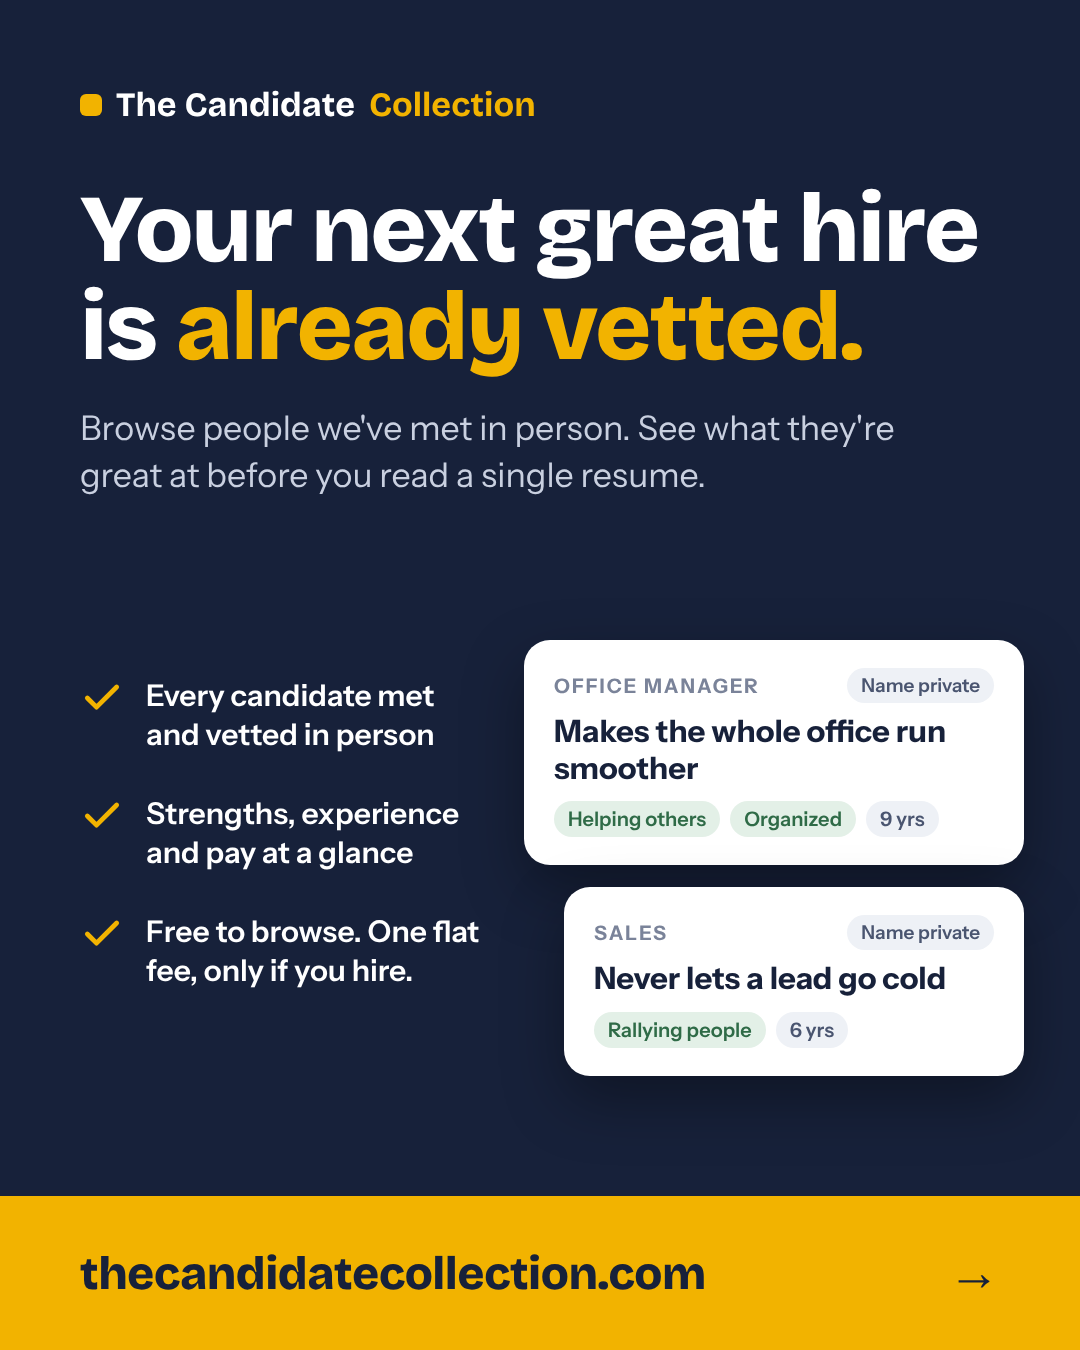
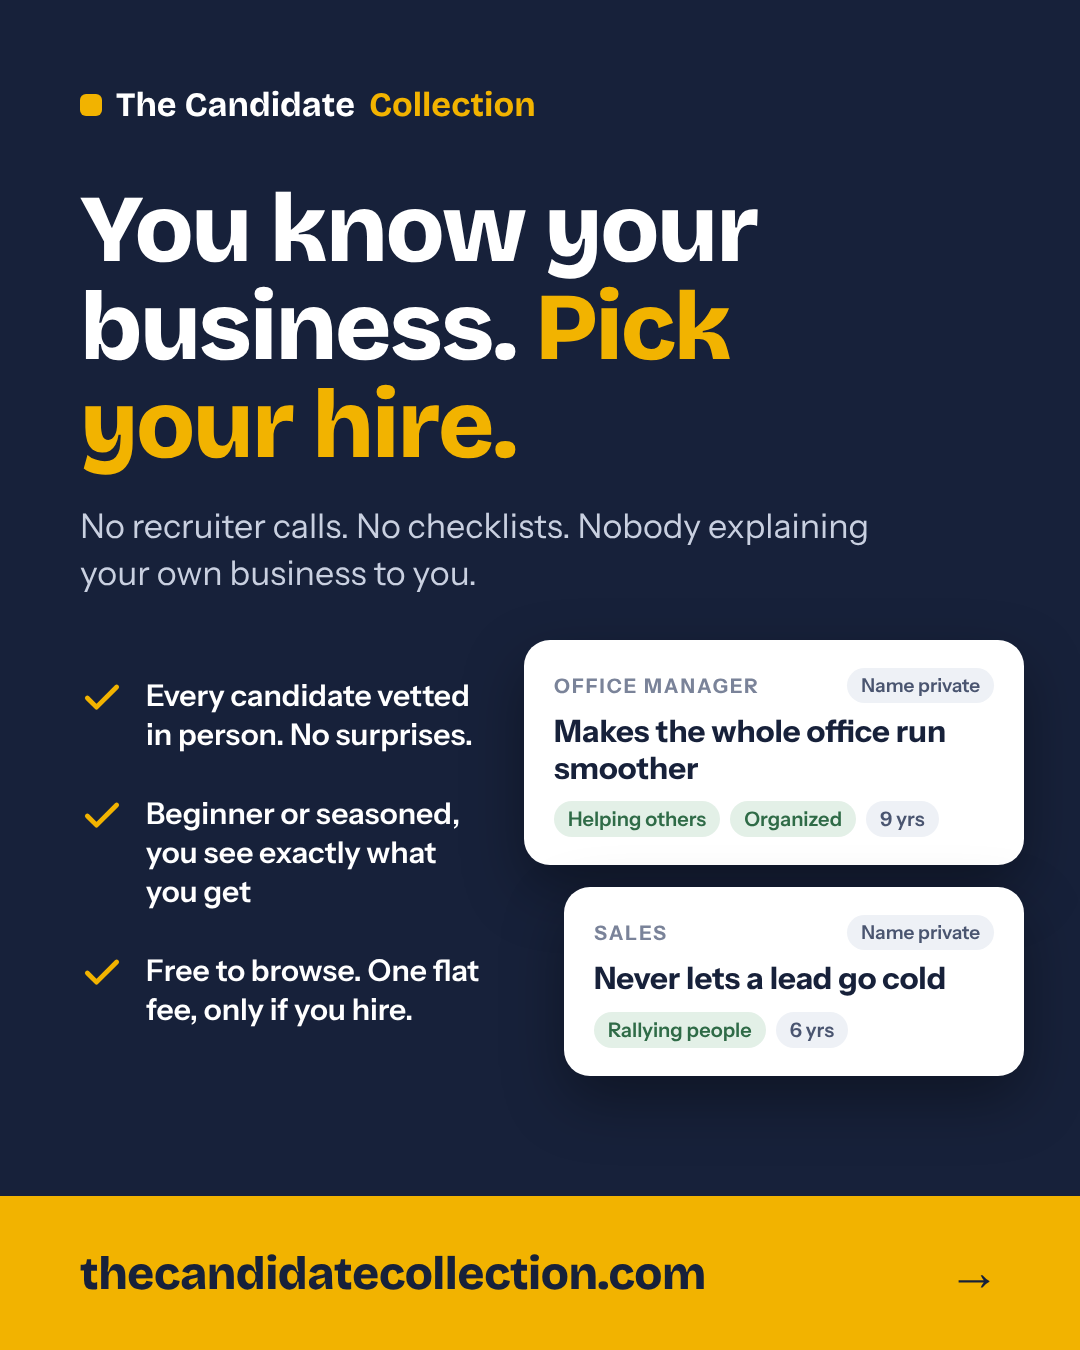
Sharper owner teaser: you know your business, pick your hire
Claude-Session: https://claude.ai/code/session_01EZeEyNzeQFPN4DFsUvzuMe

Changed region(s): [[0.0611, 0.1244, 0.9167, 0.4356], [0.0917, 0.5911, 0.4583, 0.7778], [0.1222, 0.4978, 0.4278, 0.56]]

diff --git a/src/app/layout.tsx b/src/app/layout.tsx
@@ -19,9 +19,9 @@ export const metadata: Metadata = {
   openGraph: {
     type: "website",
     siteName: brandName(),
-    title: "Your next great hire is already vetted.",
-    description: "Every candidate met and vetted in person. See strengths, experience and pay at a glance. Free to browse, one flat fee only if you hire.",
-    images: [{ url: "/share/og.png", width: 1200, height: 630, alt: "The Candidate Collection: your next great hire is already vetted" }],
+    title: "You know your business. Pick your hire.",
+    description: "No recruiter calls, no checklists. Candidates already vetted in person. Free to browse, one flat fee only if you hire.",
+    images: [{ url: "/share/og.png", width: 1200, height: 630, alt: "The Candidate Collection: you know your business, pick your hire" }],
   },
   twitter: { card: "summary_large_image", images: ["/share/og.png"] },
 };

diff --git a/src/components/ShareTools.tsx b/src/components/ShareTools.tsx
@@ -88,7 +88,7 @@ export function KitView({ message, link, image }: { message: string; link: strin
   return (
     <div style={{ display: "grid", gridTemplateColumns: "repeat(auto-fit, minmax(280px, 1fr))", gap: 28, alignItems: "start" }}>
       {/* eslint-disable-next-line @next/next/no-img-element */}
-      <img src={image} alt="The Candidate Collection: your next great hire is already vetted" style={{ width: "100%", maxWidth: 460, borderRadius: 16, boxShadow: "0 12px 30px rgba(23,33,58,.15)" }} />
+      <img src={image} alt="The Candidate Collection: you know your business, pick your hire" style={{ width: "100%", maxWidth: 460, borderRadius: 16, boxShadow: "0 12px 30px rgba(23,33,58,.15)" }} />
       <div style={{ display: "grid", gap: 16, minWidth: 0 }}>
         <div>
           <p className="small muted" style={{ margin: "0 0 6px", fontWeight: 600 }}>

diff --git a/src/lib/shareKit.ts b/src/lib/shareKit.ts
@@ -20,7 +20,7 @@ export function shareLink(ref?: string | null) {
 }
 
 export function ownerMessage(link: string) {
-  return `Hiring? Take a look at The Candidate Collection. Every candidate is met and vetted in person, so you see their strengths, experience and pay range at a glance. No job post, no pile of resumes. Free to browse, and one flat fee only if you hire.\n\n${link}`;
+  return `Business owner? You know what you need. Skip the recruiter calls, the checklists, and the person explaining your own business to you.\n\nBrowse candidates we've already vetted in person, beginner to seasoned. Pick the one you want and hire them. Free to browse, one flat fee only if you hire.\n\n${link}`;
 }
 
 // A new owner who came through someone's link: remember who sent them.
